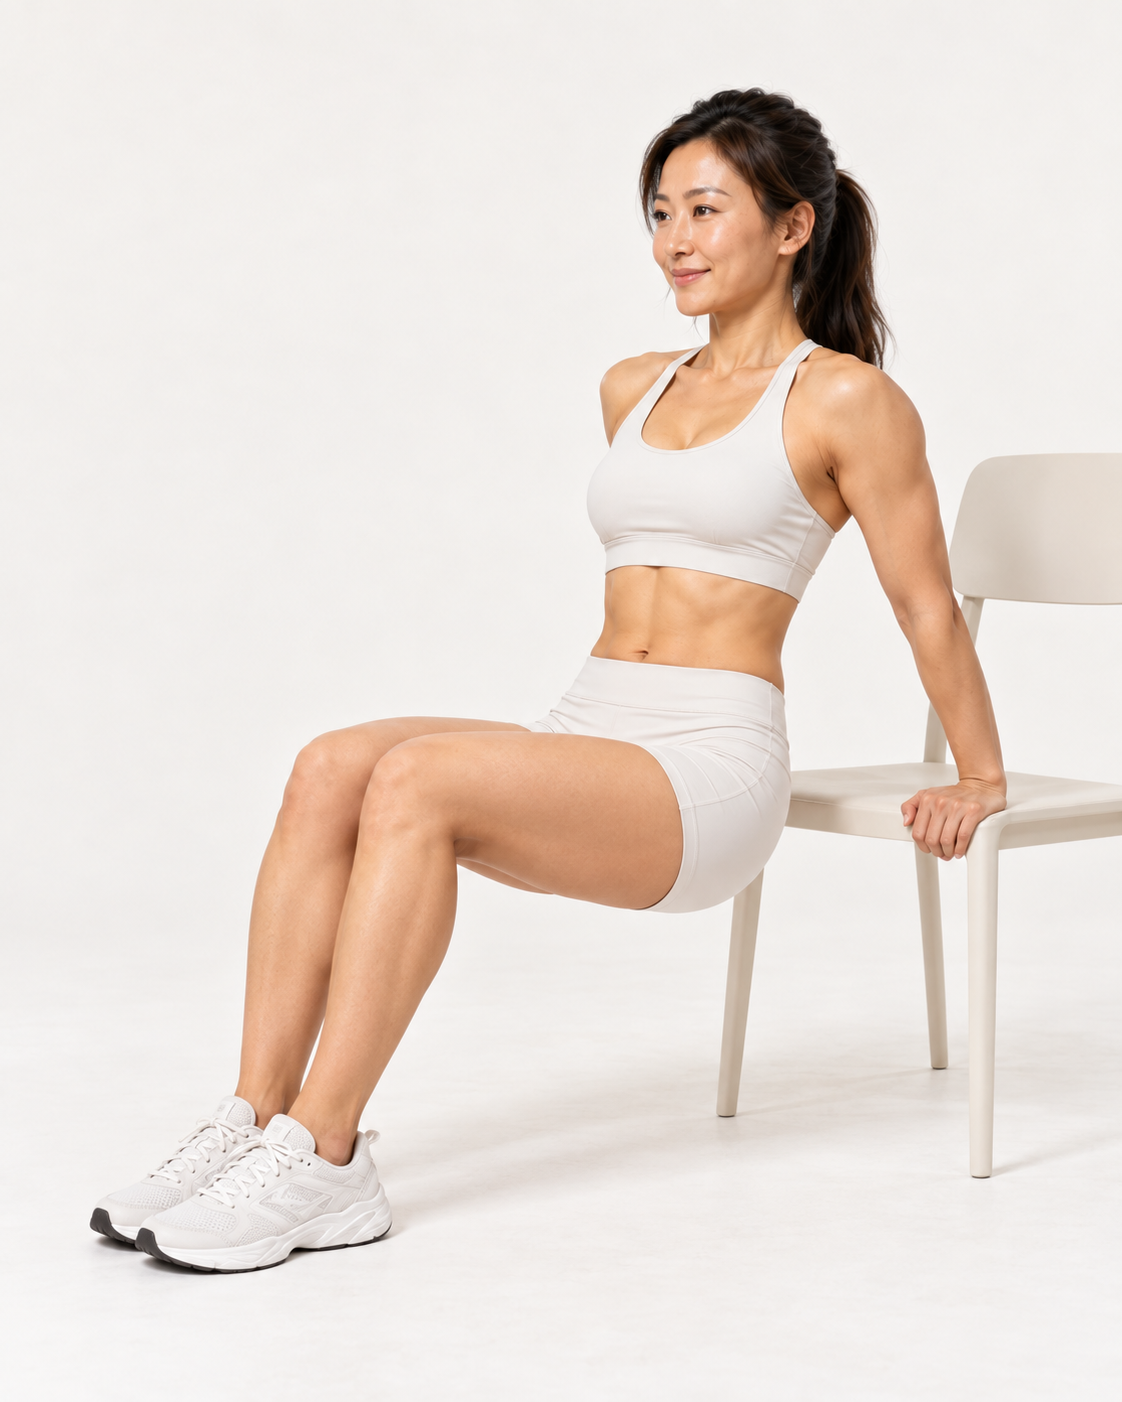
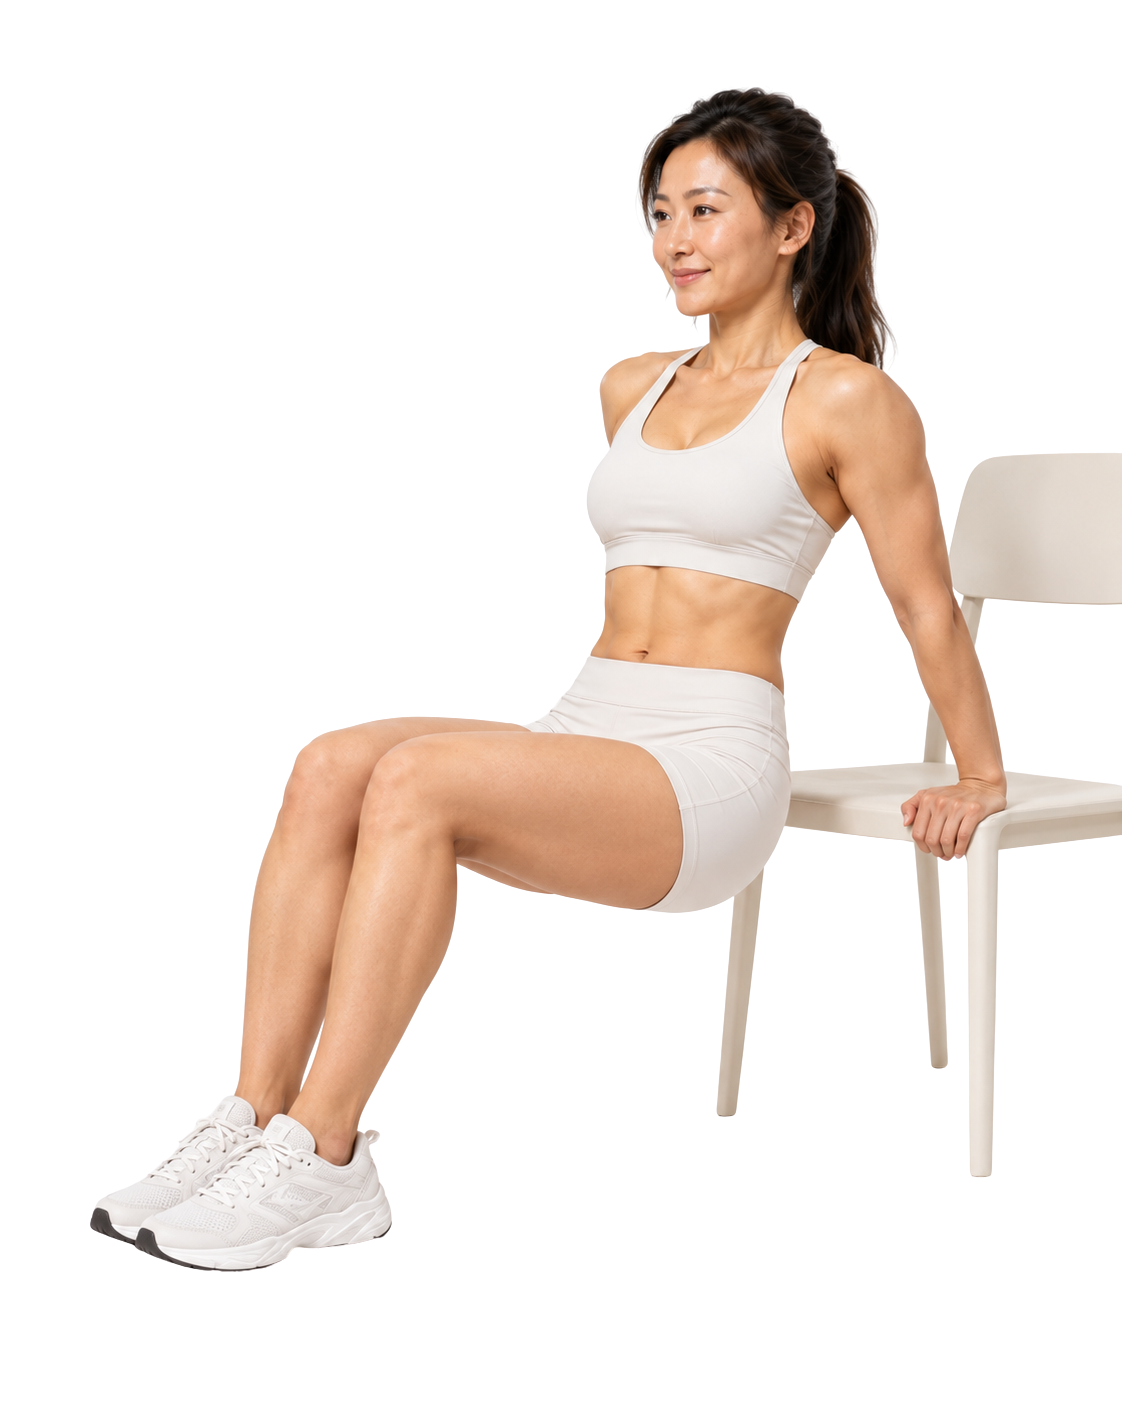
Shrink and center the valueProp image, swap to Design sem nome (44)
Add naturalMaxWidthPx to ImageSlot so a 'natural' image can be capped and centered instead of stretching full-width; valueProp now uses 220px so the headline/description/CTA fit without extra scrolling.

Changed region(s): [[0.3119, 0.7054, 1.0, 0.8894], [0.0624, 0.8588, 0.3119, 0.9201]]

diff --git a/src/components/quiz/ImagePlaceholder.tsx b/src/components/quiz/ImagePlaceholder.tsx
@@ -40,7 +40,8 @@ export function ImagePlaceholder({ slot, className, priority }: { slot: ImageSlo
           alt={slot.alt}
           width={slot.naturalWidth ?? 1000}
           height={slot.naturalHeight ?? 1000}
-          className={`h-auto w-full ${className ?? ""}`}
+          className={`h-auto ${slot.naturalMaxWidthPx ? "mx-auto" : "w-full"} ${className ?? ""}`}
+          style={slot.naturalMaxWidthPx ? { width: "100%", maxWidth: `${slot.naturalMaxWidthPx}px` } : undefined}
           priority={priority}
         />
       );

diff --git a/src/lib/quizData.ts b/src/lib/quizData.ts
@@ -238,6 +238,7 @@ export const quizSteps: QuizStep[] = [
       src: `${P}/valueprop-body.png`,
       naturalWidth: 1122,
       naturalHeight: 1402,
+      naturalMaxWidthPx: 220,
     },
     headline: "Perfeito. Agora já sabemos exatamente quais partes do seu corpo mais Incomodam você",
     body: "Com base nisso daremos Inicio a criação do seu Treino personalizado de calistenia focado justamente nas regiões que você quer transformar, respeitando o seu ritmo e o ponto em que o seu corpo está hoje.",

diff --git a/src/lib/quizTypes.ts b/src/lib/quizTypes.ts
@@ -16,6 +16,9 @@ export interface ImageSlot {
    * without a `fill` wrapper (which is what forced the mismatched-aspect background). */
   naturalWidth?: number;
   naturalHeight?: number;
+  /** "natural" only — caps and centers the render instead of stretching it full-width,
+   * for a supporting illustration that shouldn't dominate the screen. */
+  naturalMaxWidthPx?: number;
 }
 
 export interface ChoiceOption {
